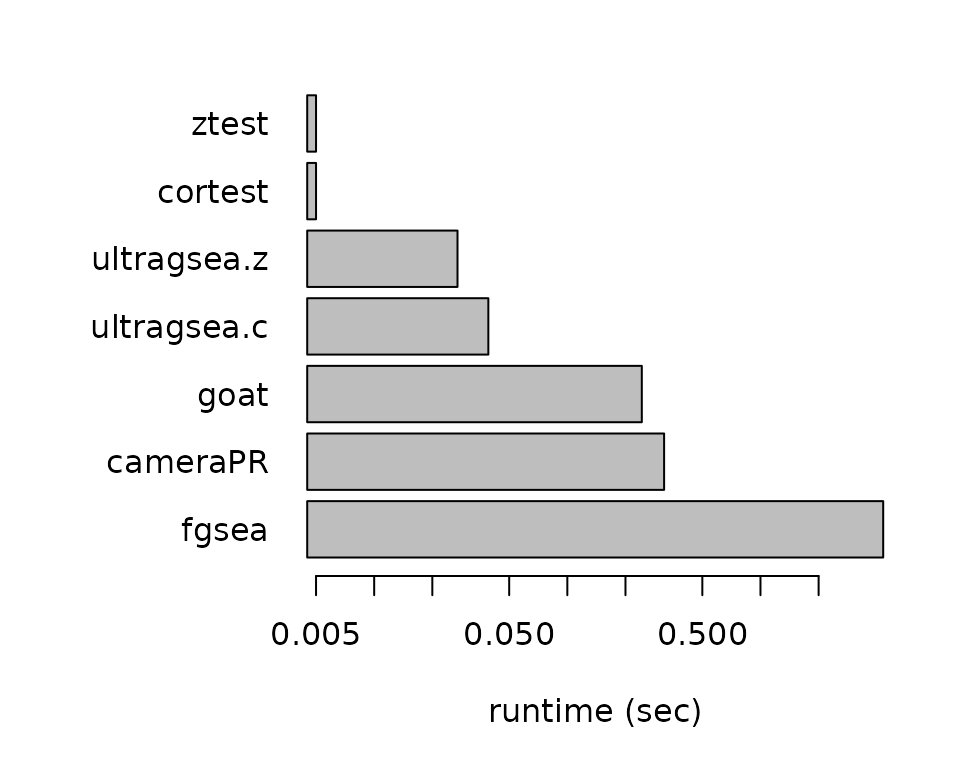
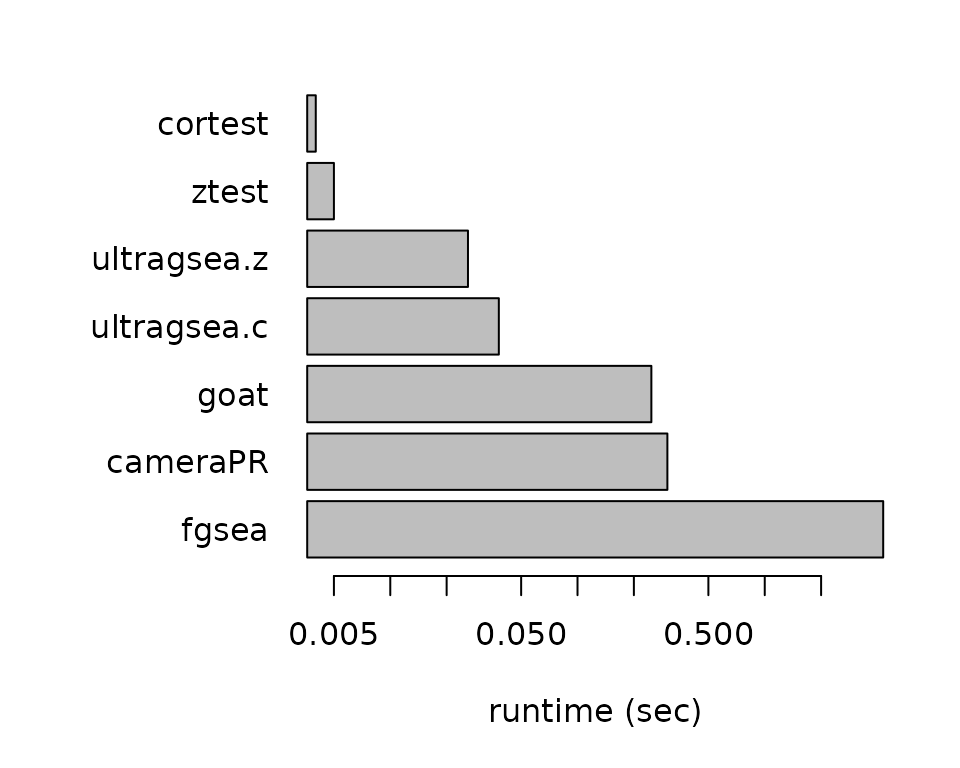
Deploying to gh-pages from @ bigomics/ultragsea@622b666e4aa89141d826fe70b11ead5053438348 🚀

diff --git a/articles/compare-methods.html b/articles/compare-methods.html
@@ -171,31 +171,31 @@ of each method.</p>
 <tbody>
 <tr class="odd">
 <td align="left">fgsea</td>
-<td align="right">4.319</td>
+<td align="right">4.292</td>
 <td align="right">4.0</td>
 <td align="right">43.8</td>
 </tr>
 <tr class="even">
 <td align="left">cameraPR</td>
-<td align="right">0.317</td>
+<td align="right">0.302</td>
 <td align="right">0.8</td>
 <td align="right">42.5</td>
 </tr>
 <tr class="odd">
 <td align="left">ultragsea.z</td>
-<td align="right">0.027</td>
+<td align="right">0.026</td>
 <td align="right">0.1</td>
 <td align="right">5.8</td>
 </tr>
 <tr class="even">
 <td align="left">ultragsea.c</td>
-<td align="right">0.039</td>
+<td align="right">0.038</td>
 <td align="right">0.9</td>
 <td align="right">9.5</td>
 </tr>
 <tr class="odd">
 <td align="left">cortest</td>
-<td align="right">0.005</td>
+<td align="right">0.004</td>
 <td align="right">0.1</td>
 <td align="right">2.8</td>
 </tr>
@@ -207,7 +207,7 @@ of each method.</p>
 </tr>
 <tr class="odd">
 <td align="left">goat</td>
-<td align="right">0.243</td>
+<td align="right">0.248</td>
 <td align="right">4.4</td>
 <td align="right">23.7</td>
 </tr>
@@ -279,10 +279,10 @@ fgsea::fgsea()</p>
 <div class="sourceCode" id="cb8"><pre class="downlit sourceCode r">
 <code class="sourceCode R"><span><span class="fu"><a href="https://rdrr.io/r/base/system.time.html" class="external-link">system.time</a></span><span class="op">(</span><span class="va">res1</span> <span class="op">&lt;-</span> <span class="fu">fgsea</span><span class="fu">::</span><span class="fu"><a href="https://rdrr.io/pkg/fgsea/man/fgsea.html" class="external-link">fgsea</a></span><span class="op">(</span><span class="va">gmt</span>, <span class="va">fc</span><span class="op">)</span><span class="op">)</span></span>
 <span><span class="co">#&gt;    user  system elapsed </span></span>
-<span><span class="co">#&gt;   5.606   0.093   3.633</span></span>
+<span><span class="co">#&gt;   2.991   0.048   3.592</span></span>
 <span><span class="fu"><a href="https://rdrr.io/r/base/system.time.html" class="external-link">system.time</a></span><span class="op">(</span><span class="va">res2</span> <span class="op">&lt;-</span> <span class="fu">ultragsea</span><span class="fu">::</span><span class="fu"><a href="../reference/fgsea.html">fgsea</a></span><span class="op">(</span><span class="va">gmt</span>, <span class="va">fc</span><span class="op">)</span><span class="op">)</span></span>
 <span><span class="co">#&gt;    user  system elapsed </span></span>
-<span><span class="co">#&gt;   0.215   0.126   0.274</span></span></code></pre></div>
+<span><span class="co">#&gt;   0.214   0.129   0.274</span></span></code></pre></div>
 </div>
 </div>
   </main><aside class="col-md-3"><nav id="toc" aria-label="Table of contents"><h2>On this page</h2>

diff --git a/articles/compare-methods.md b/articles/compare-methods.md
@@ -101,13 +101,13 @@ kableExtra::kable(tt)
 
 | Function_Call | Elapsed_Time_sec | Total_RAM_Used_MiB | Peak_RAM_Used_MiB |
 |:--------------|-----------------:|-------------------:|------------------:|
-| fgsea         |            4.319 |                4.0 |              43.8 |
-| cameraPR      |            0.317 |                0.8 |              42.5 |
-| ultragsea.z   |            0.027 |                0.1 |               5.8 |
-| ultragsea.c   |            0.039 |                0.9 |               9.5 |
-| cortest       |            0.005 |                0.1 |               2.8 |
+| fgsea         |            4.292 |                4.0 |              43.8 |
+| cameraPR      |            0.302 |                0.8 |              42.5 |
+| ultragsea.z   |            0.026 |                0.1 |               5.8 |
+| ultragsea.c   |            0.038 |                0.9 |               9.5 |
+| cortest       |            0.004 |                0.1 |               2.8 |
 | ztest         |            0.005 |                0.0 |               2.8 |
-| goat          |            0.243 |                4.4 |              23.7 |
+| goat          |            0.248 |                4.4 |              23.7 |
 
 ``` r
 rt <- tt[,2]
@@ -185,8 +185,8 @@ fgsea::fgsea()
 ``` r
 system.time(res1 <- fgsea::fgsea(gmt, fc))
 #>    user  system elapsed 
-#>   5.606   0.093   3.633
+#>   2.991   0.048   3.592
 system.time(res2 <- ultragsea::fgsea(gmt, fc))
 #>    user  system elapsed 
-#>   0.215   0.126   0.274
+#>   0.214   0.129   0.274
 ```
